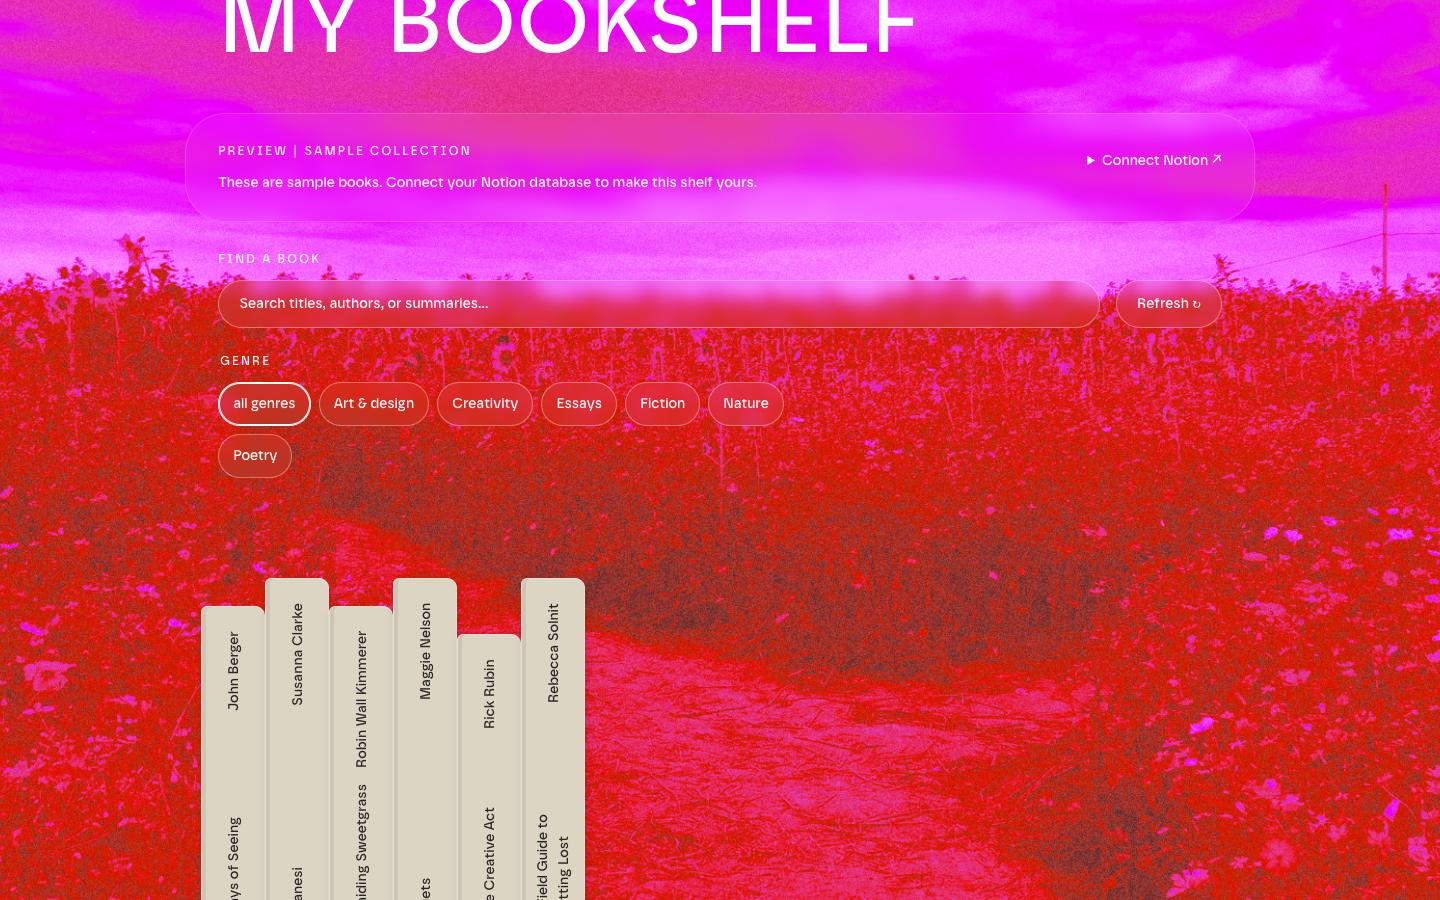
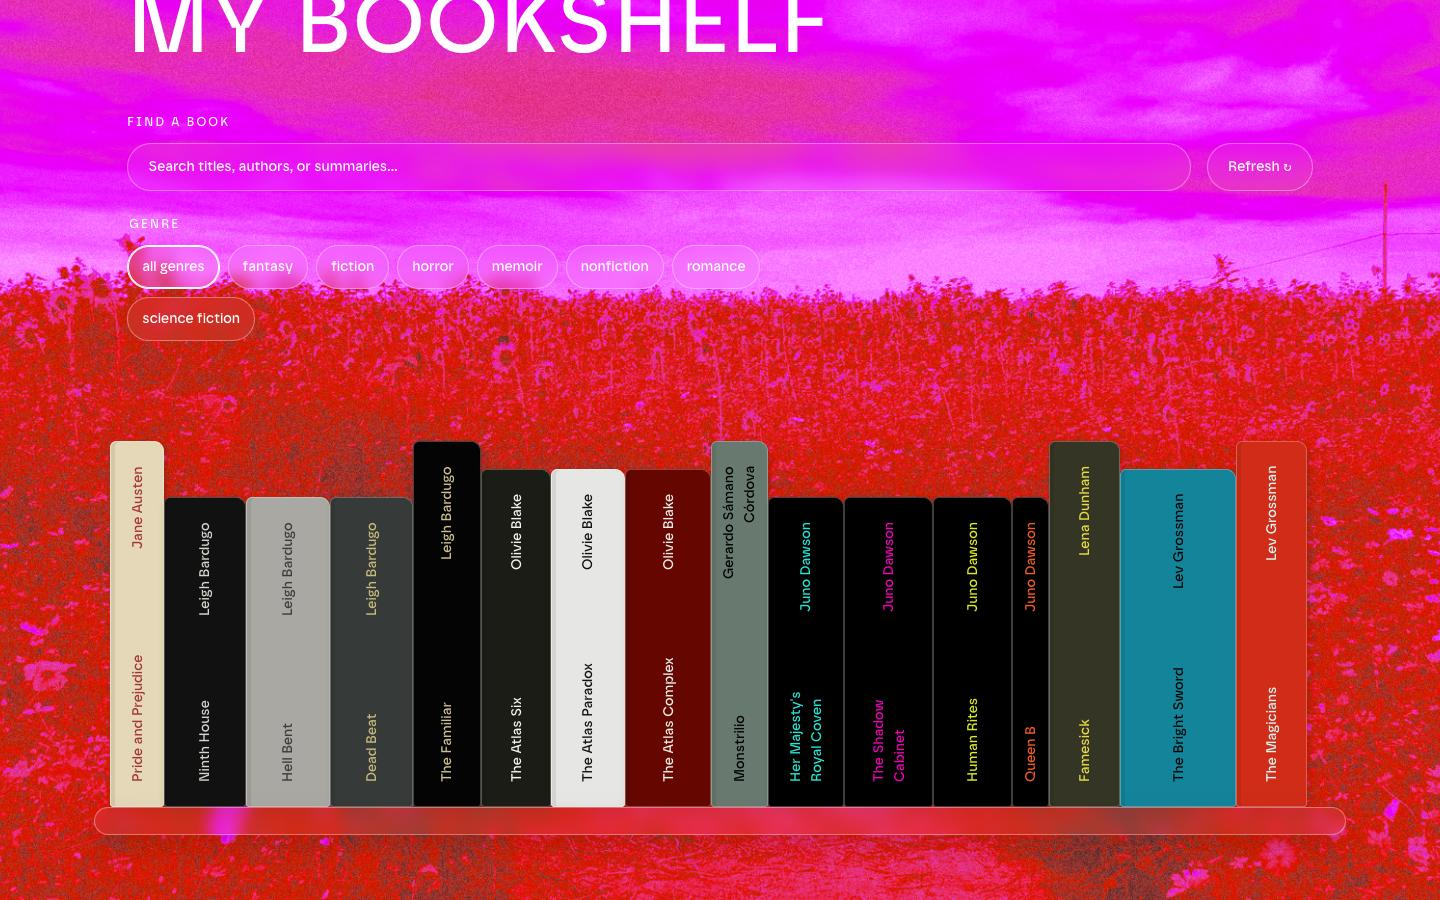
Add Jiaqi's bookstore and refresh Ethan and Kate bookshelf previews

diff --git a/src/projects.js b/src/projects.js
@@ -160,6 +160,7 @@ const bookProjects = [
   ["Ethan Wise","My Bookshelf","/prototypes/my-bookshelf"],
   ["Heran Cui (Bruce)","Bruce’s books","/prototypes/my-bookshelf"],
   ["Hoi Kin Chan (Matthew)","My bookshelf","/prototypes/my-bookshelf"],
+  ["Jiaqi Yuan","My Bookstore","/prototypes/my-bookshelf"],
   ["Jochi Yu","My bookshelf","/prototypes/my-bookshelf"],
   ["Letian Tian","My Bookshelf","/prototypes/my-bookshelf"],
   ["Michelle Wong","Michelle's Bookshelf","/prototypes/my-bookshelf"],

diff --git a/docs/books-review-2026-10-16.md b/docs/books-review-2026-10-16.md
@@ -12,6 +12,8 @@ Jochi’s shelf, previously blocked by missing Notion configuration, now renders
 
 Evidence: `output/books-recheck-2026-10-23/` contains rendered text, request statuses, and screenshots for every checked page.
 
+Later the same day, two more rechecks added **Jiaqi**’s “My Bookstore,” bringing the collection to **29 projects from 27 students**. It is linked from her homepage but displays missing Notion configuration, so no books load. Ethan connected his shelf to Notion (110 books in a redesigned shelf) and Kate redesigned hers as a drag-to-shelve “Annual shelf.” Both previews were refreshed.
+
 ## Latest additions check
 
 Reviewed all 31 homepages, including Wenying’s newly available roster URL, and checked the common bookshelf route on the nine sites absent from the Books collection. Found **Sunshine** and **Reign**, bringing the collection to **24 projects from 24 students**. Both are linked from their homepages and returned 200. Sunshine displays eight books in Demo Mode; Reign displays 12 entries with a Live Notion Database indicator and a successful books API response. Both have captured previews. No bookshelf was found for the other seven students, including Wenying.
@@ -35,15 +37,16 @@ Revisited all 30 roster sites and checked the common bookshelf route on all 29 V
 | Student | Project | Observed state |
 | --- | --- | --- |
 | Caoyun Xu (Zoe) | [My bookshelf](https://my-bookshelf-sand.vercel.app/) | Twelve sample books with ratings and reading notes on a separately hosted deployment linked from her portfolio. |
-| Ethan Wise | [My Bookshelf](https://prototyping-for-masters-8v9j.vercel.app/prototypes/my-bookshelf) | Six sample books rendered. Now also linked from his homepage. |
+| Ethan Wise | [My Bookshelf](https://prototyping-for-masters-8v9j.vercel.app/prototypes/my-bookshelf) | Connected to Notion (October 23): redesigned shelf with search, eight genre filters, and 110 books. Linked from his homepage. |
 | Heran Cui (Bruce) | [Bruce’s books](https://prototyping-for-masters-one.vercel.app/prototypes/my-bookshelf) | Redesigned again (October 23): stacked spines above a “Bruce’s Book Collection” title list, with search and genre filters. |
 | Hoi Kin Chan (Matthew) | [My bookshelf](https://matthews-site.vercel.app/prototypes/my-bookshelf) | One book, Vagabond, rendered with a rating and a detailed review; books endpoint returned 200. |
+| Jiaqi Yuan | [My Bookstore](https://prototyping-for-masters-1-eyt7.vercel.app/prototypes/my-bookshelf) | Added October 23: “A Constellation of Stories” bookstore page, linked from her homepage; displays missing Notion configuration, so no books load. |
 | Jochi Yu | [My bookshelf](https://jochiprototypes.vercel.app/prototypes/my-bookshelf) | Recovered: now renders a “Jochi’s Books” collection of scattered covers (October 23). Previously displayed missing Notion configuration. |
 | Letian Tian | [My Bookshelf](https://prototyping-for-masters-nine.vercel.app/prototypes/my-bookshelf) | Twelve books with genres, ratings, and reviews rendered; Notion books endpoint returned 200. |
 | Michelle Wong | [Michelle's Bookshelf](https://prototyping-for-masters-wine.vercel.app/prototypes/my-bookshelf) | Nine books with ratings and reviews rendered; bookshelf endpoint returned 200. Live Notion provenance was not independently established. |
 | Mingtai Sun | [My Bookshelf](https://mingtai-prototypes.vercel.app/prototypes/my-bookshelf) | Eight books rendered in explicitly labeled Sample Library mode. |
 | Minju Jang | [My Bookshelf](https://minjujang-prototyping-3rp6.vercel.app/prototypes/my-bookshelf) | Rebuilt (October 23) as “Minju’s Bookshelf” with Shelf, Stack, and Gallery views and genre/sort controls; eight books, labeled Demo Mode. |
-| Qianyi Ma (Kate) | [My bookshelf / 我的书架](https://qianyima.vercel.app/prototypes/my-bookshelf) | Twelve books rendered with a connected-to-Notion indicator; books endpoint returned 200. |
+| Qianyi Ma (Kate) | [My bookshelf / 我的书架](https://qianyima.vercel.app/prototypes/my-bookshelf) | Redesigned (October 23) as “A little room for stories”: 12 Notion books start unshelved and can be dragged onto an Annual shelf. Connected to Notion. |
 | Ruyi Wang | [JZA / Bookshelf](https://ruyiwang.vercel.app/prototypes/my-bookshelf) | Added October 23: spine-style shelf of 13 books with genre and score filters and a Live Notion indicator; linked from her homepage. |
 | Ryan Page | [My bookshelf](https://prototyping-for-masters-rho.vercel.app/prototypes/my-bookshelf) | Now connected to Ryan’s Notion books: 13 books rendered, and the books endpoint returned 200. |
 | Sasha Shafran | [What I Read in NYC](https://prototyping-for-masters-sashki-lw62.vercel.app/prototypes/my-bookshelf) | Connection fixed: now displays 13 books and a Live from Notion indicator. Preview refreshed from the live reading log. |
@@ -70,7 +73,6 @@ Revisited all 30 roster sites and checked the common bookshelf route on all 29 V
 | Student | Result |
 | --- | --- |
 | Carnycia Royce | No bookshelf project found. |
-| Jiaqi Yuan | No bookshelf project found. |
 | Wenying Zhu | Newly available roster site reviewed; no bookshelf project found. |
 | Ziqing Huang (Lyra) | No bookshelf project found. |
 

diff --git a/README.md b/README.md
@@ -16,7 +16,7 @@ The homepage opens in **Student sites**, showing the full roster. Choose **Proje
 - `/#student-sites` — student directory (default)
 - `/?view=projects#student-sites` — all projects
 
-The collection contains **34 Typography**, **22 projects in the PixiJS group**, **27 Doodle**, **29 Weather apps**, **9 API explorations**, and **28 Books** projects. Classification is based on the rendered project and its main interaction; portfolio titles and route names can be stale. PixiJS projects are checked for actual renderer usage, not just a library name in a prefetched homepage, with instructor-directed additions noted in [the curation review](docs/project-curation.md).
+The collection contains **34 Typography**, **22 projects in the PixiJS group**, **27 Doodle**, **29 Weather apps**, **9 API explorations**, and **29 Books** projects. Classification is based on the rendered project and its main interaction; portfolio titles and route names can be stale. PixiJS projects are checked for actual renderer usage, not just a library name in a prefetched homepage, with instructor-directed additions noted in [the curation review](docs/project-curation.md).
 
 The [Week 5 review](docs/weather-review-2026-10-09.md) records the initial 29 published sites and Caoyun’s subsequent site review, the 25 weather apps included, and API/demo limitations.
 
@@ -26,7 +26,7 @@ The [October 16 recheck](docs/week5-review-2026-10-16.md) adds Zoe’s Atmos, Ar
 
 The [API explorations review](docs/api-review-2026-10-09.md) records the full-roster review, four non-weather API projects, and their live/demo behavior.
 
-The [Week 6 Books review](docs/books-review-2026-10-16.md) records the full-roster review, 28 published bookshelf projects (with an October 23 recheck), and observed demo/configuration limitations.
+The [Week 6 Books review](docs/books-review-2026-10-16.md) records the full-roster review, 29 published bookshelf projects (with an October 23 recheck), and observed demo/configuration limitations.
 
 The [October 17 audit](docs/site-review-2026-10-17.md) rechecked all 31 sites with `npm run audit:projects`, added five projects, removed two that no longer exist, and refreshed every thumbnail.
 
